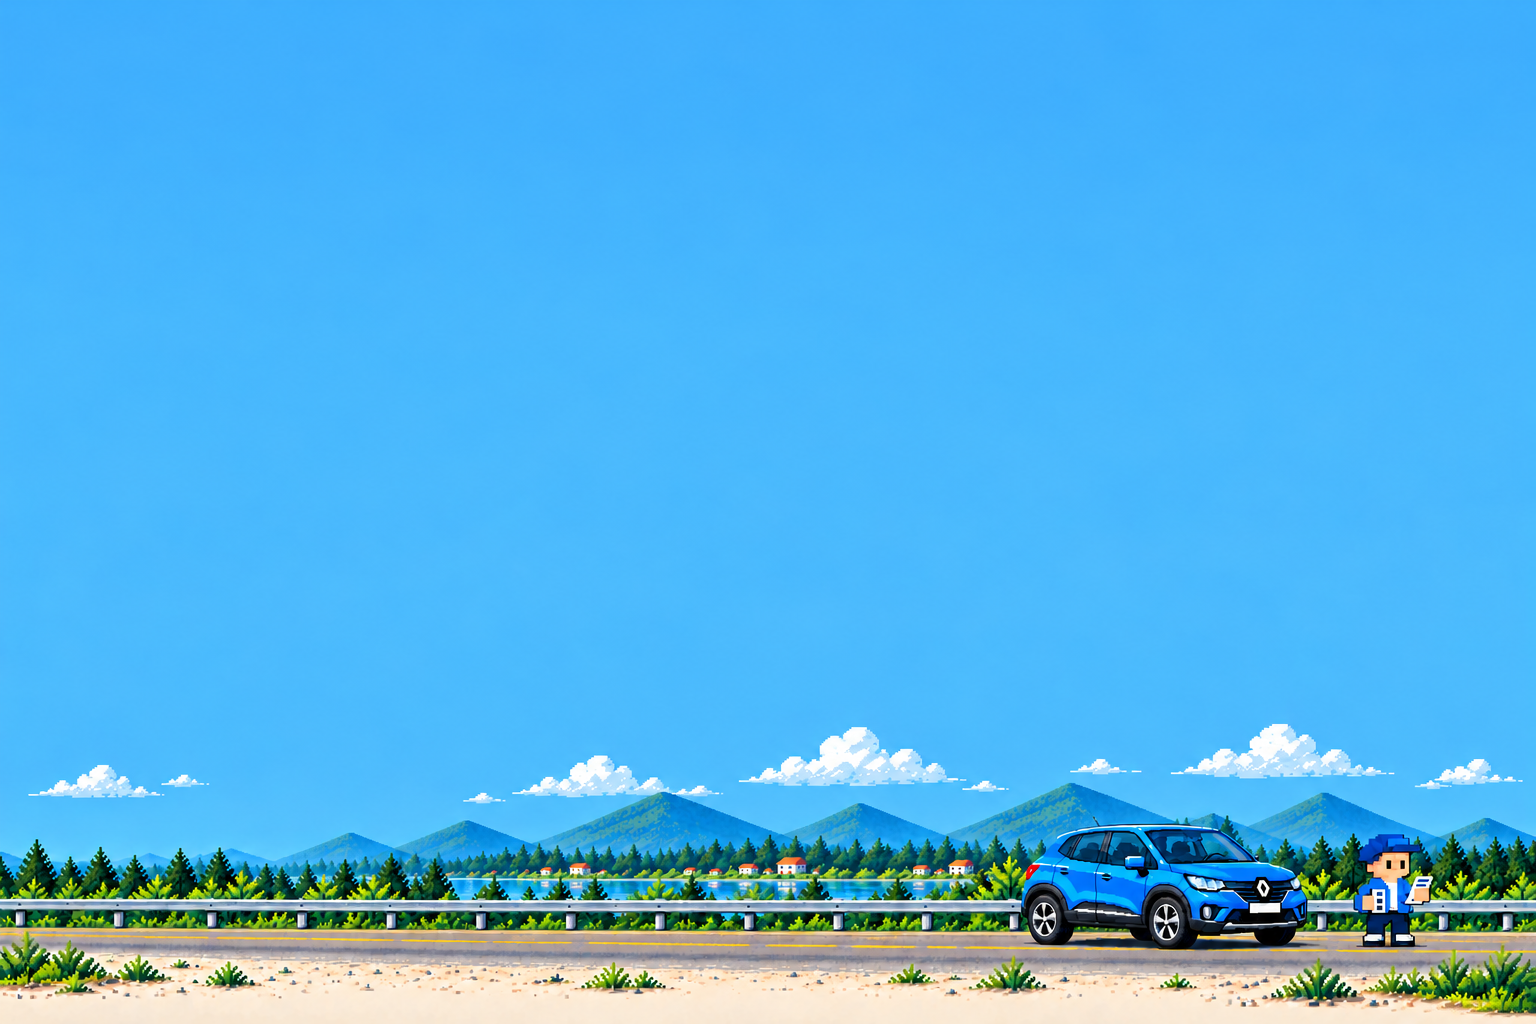
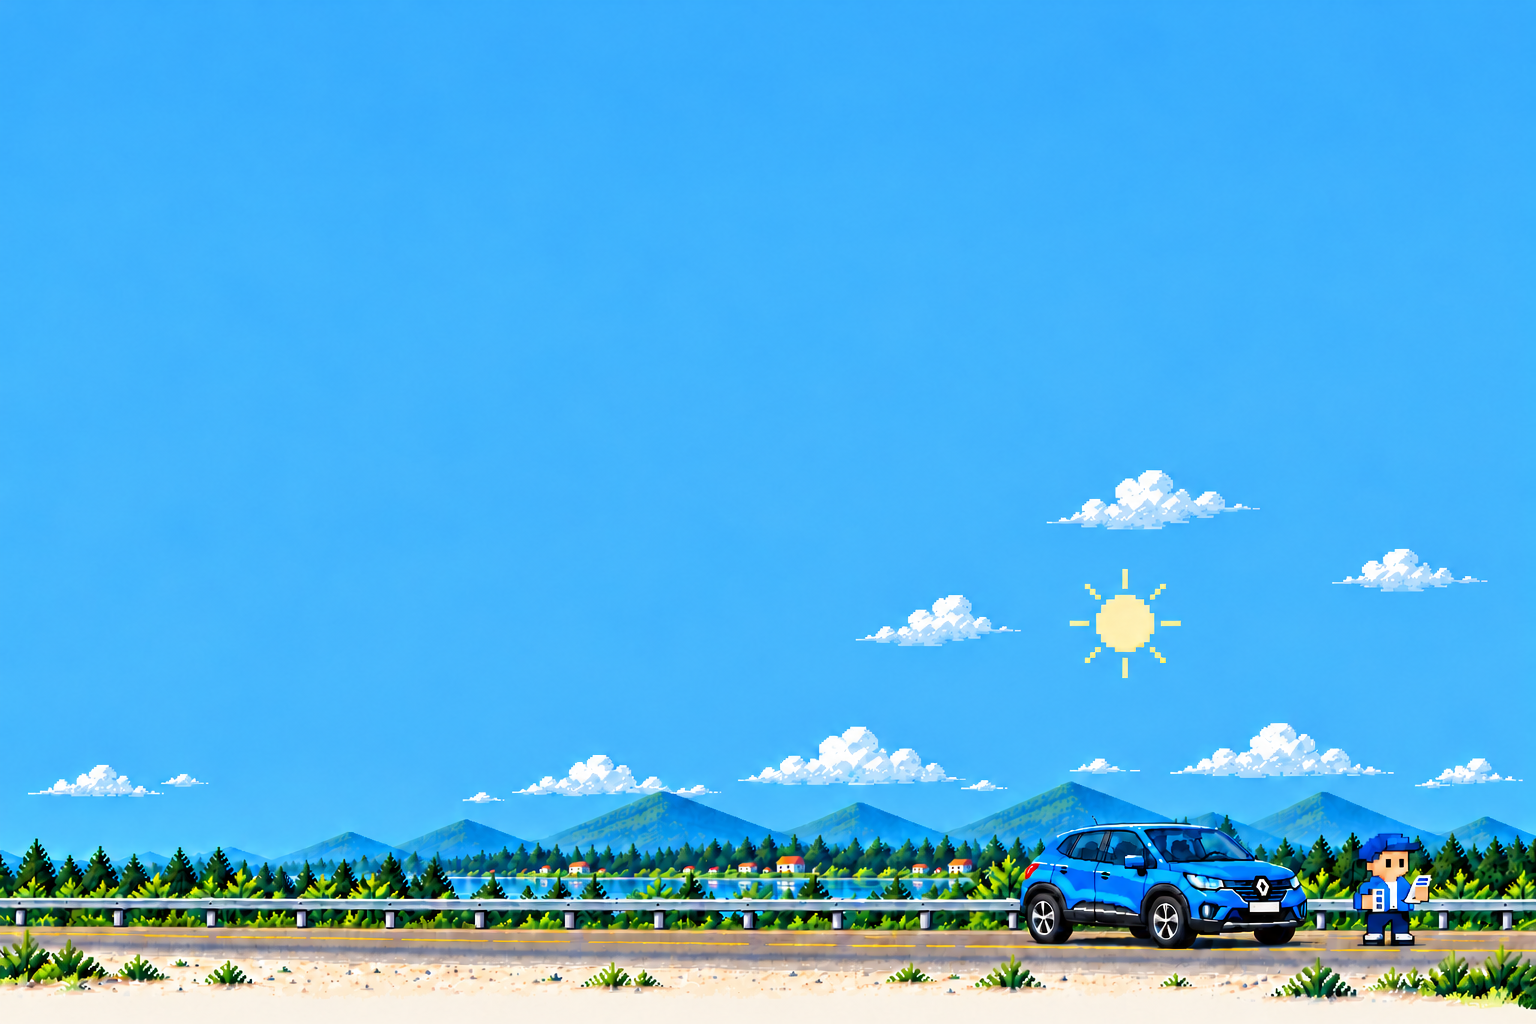
fix(app): integrar cenário diurno ao fundo do dashboard

diff --git a/app/src/features/home/HomeScreen.tsx b/app/src/features/home/HomeScreen.tsx
@@ -57,7 +57,7 @@ export function HomeScreen({ embeddedInShell = false }: { embeddedInShell?: bool
   const landscapeStyle = useAnimatedStyle(() => ({ height:Math.max(compactHeight,expandedHeight-scrollY.value) }));
   const tailStyle = useAnimatedStyle(() => {
     const fraction=Math.min(1,scrollY.value/Math.max(1,expandedHeight-compactHeight));
-    const depth=32-18*fraction;
+    const depth=isDark?32-18*fraction:16-6*fraction;
     return {height:depth*2,bottom:Math.max(0,width*(0.08-0.098*fraction))-depth};
   });
   const imageSource = isDark ? require('@/assets/brand/scene_night_road_compact.png') : require('@/assets/brand/scene_day_road_compact.png');
@@ -113,7 +113,7 @@ export function HomeScreen({ embeddedInShell = false }: { embeddedInShell?: bool
             <Stop offset="0" stopColor={colors.bgPrimary} stopOpacity={0}/><Stop offset="0.5" stopColor={colors.bgPrimary} stopOpacity={1}/><Stop offset="1" stopColor={colors.bgPrimary} stopOpacity={0}/>
           </LinearGradient><LinearGradient id="dashboard-tail-shadow" x1="0%" y1="0%" x2="0%" y2="100%">
             <Stop offset="0" stopColor="#000000" stopOpacity={0}/><Stop offset="0.5" stopColor="#000000" stopOpacity={isDark?0.42:0.16}/><Stop offset="0.75" stopColor="#000000" stopOpacity={isDark?0.12:0.05}/><Stop offset="1" stopColor="#000000" stopOpacity={0}/>
-          </LinearGradient></Defs><Rect width="100%" height="100%" fill="url(#dashboard-tail)"/><Rect width="100%" height="100%" fill="url(#dashboard-tail-shadow)"/></Svg></Animated.View>
+          </LinearGradient></Defs><Rect width="100%" height="100%" fill="url(#dashboard-tail)"/>{isDark?<Rect width="100%" height="100%" fill="url(#dashboard-tail-shadow)"/>:null}</Svg></Animated.View>
           {!embeddedInShell ? <View pointerEvents="box-none" style={[styles.standaloneHeader,{top:insets.top+16}]}><View pointerEvents="none"><BrandLockup mode="wordmark-only" wordmarkWidth={96}/></View>
             <Pressable style={styles.avatarButton} accessibilityRole="button" accessibilityLabel="Minha conta" onPress={() => router.push('/account')}><PixelMascot variant="avatar" size={24} withFrame /></Pressable></View> : null}
           <View style={[styles.selectorContainer,{top:headerHeight-20+Math.max(0,fontScale-1)*20,paddingHorizontal:width<350?16:20,minHeight:selectorHeight}]} pointerEvents="box-none">
